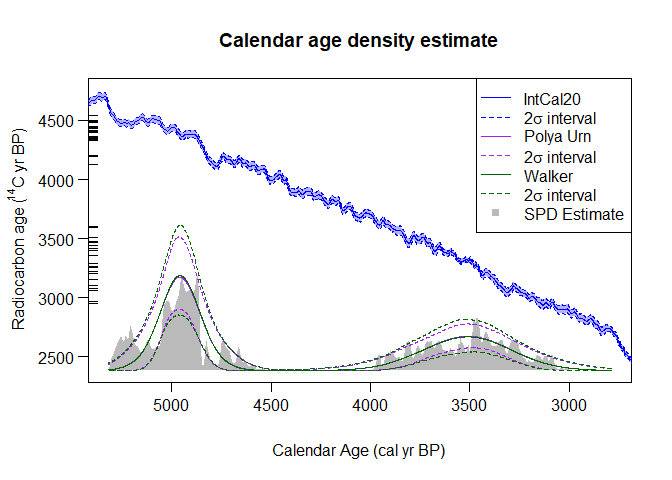
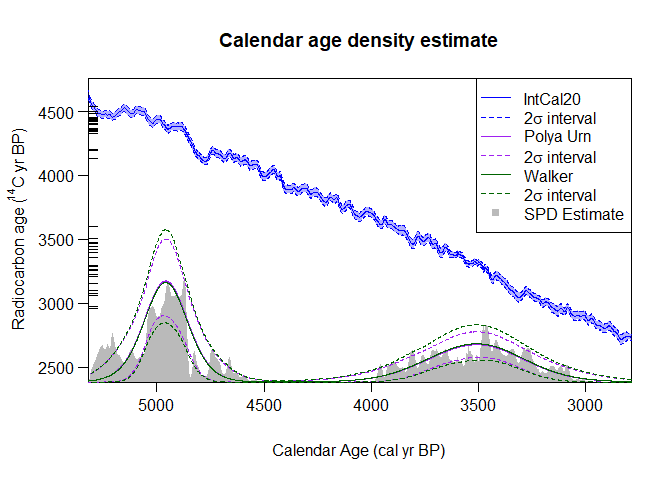
Harmonising output of Find and Plot to be calendar_age_BP

diff --git a/README.md b/README.md
@@ -6,11 +6,8 @@
 <!-- badges: start -->
 
 [![R-CMD-check](https://github.com/TJHeaton/carbondate/actions/workflows/R-CMD-check.yaml/badge.svg)](https://github.com/TJHeaton/carbondate/actions/workflows/R-CMD-check.yaml)
-![CRAN status](https://www.r-pkg.org/badges/version/carbondate)
-
-<!-- TODO issue #34: replace the CRAN badge above with this linked one once it is available on CRAN
-[![CRAN status](https://www.r-pkg.org/badges/version/carbondate)](https://CRAN.R-project.org/package=carbondate)
--->
+![CRAN
+status](https://www.r-pkg.org/badges/version/carbondate)\](<https://CRAN.R-project.org/package=carbondate>)
 <!-- badges: end -->
 
 An R package to analyse, and summarise, multiple radiocarbon

diff --git a/cran-comments.md b/cran-comments.md
@@ -12,7 +12,7 @@ The only instance where we have not done this is in the function .SetUpDensityPl
 
 We have also:
 
-* Altered documentation of functions (and vignettes) to incorporate above plotting changes.
+* Altered documentation of functions (and vignettes) to incorporate above plotting changes (and fix a few typos to ensure parameter naming consistency across outputs).
 
 * Fixed typos in vignettes and run MCMC in "Non-parametric-summed-density" for longer to show converged result
 
